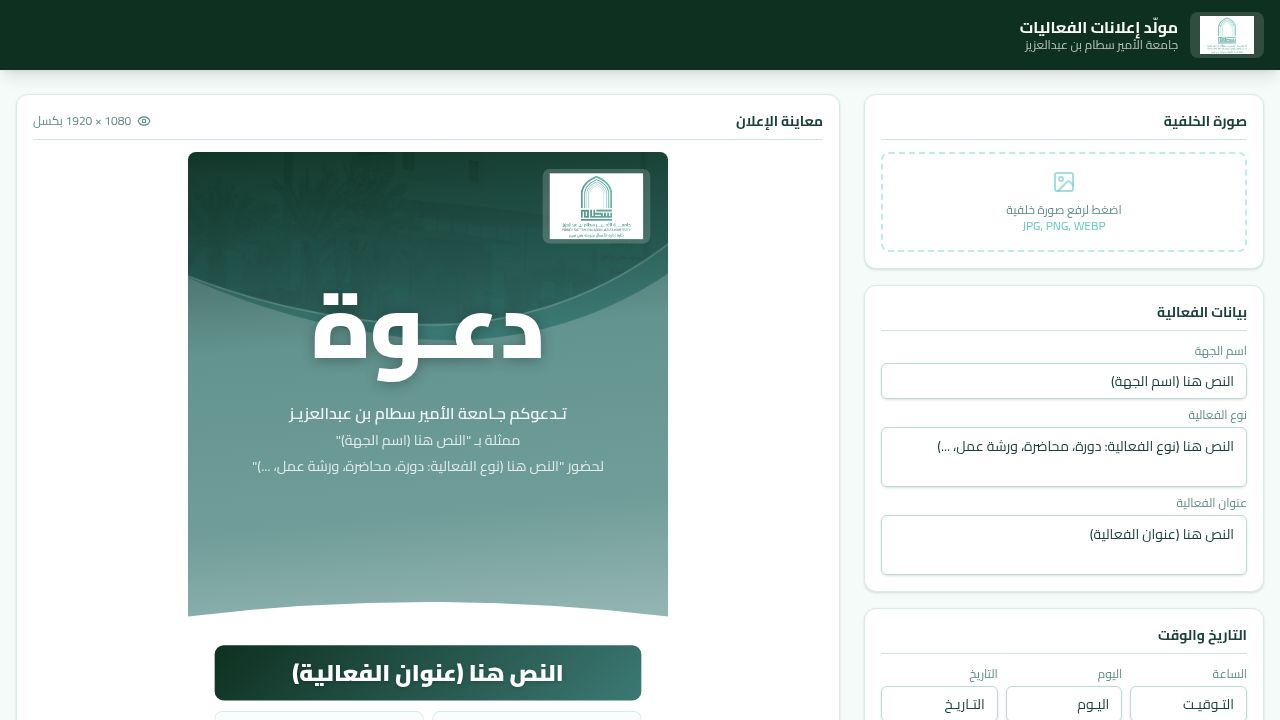
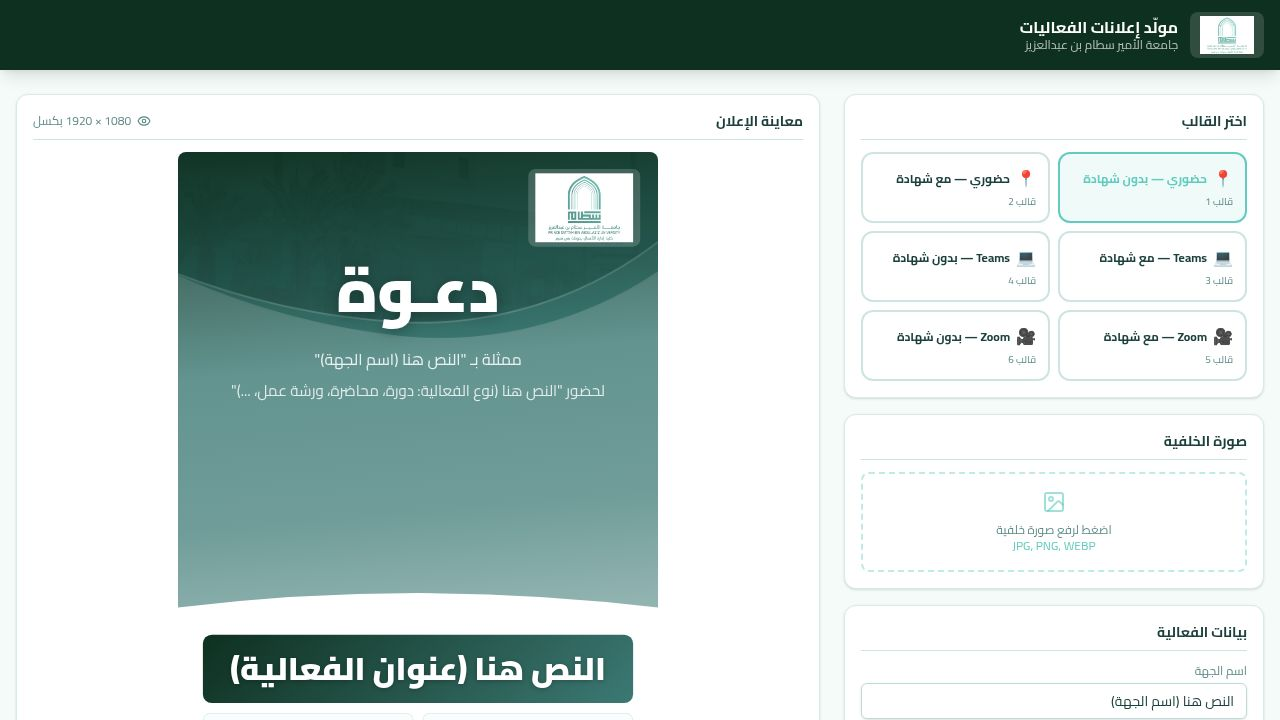
Add option to save event announcements in multiple image formats
Introduces an export format selector with WebP, PNG, and JPEG options, updating the export functionality to support these formats and their respective quality settings.

Replit-Commit-Author: Agent
Replit-Commit-Session-Id: ddc0945b-ef1c-409e-8434-9f28f4acb59c
Replit-Commit-Checkpoint-Type: full_checkpoint
Replit-Commit-Event-Id: 080a64f2-0b92-4347-a137-874e0f473299
Replit-Commit-Screenshot-Url: https://storage.googleapis.com/screenshot-production-us-central1/518b3086-2158-4eb5-bfa4-b797410b05bc/ddc0945b-ef1c-409e-8434-9f28f4acb59c/hIoFqSB
Replit-Helium-Checkpoint-Created: true

diff --git a/artifacts/ad-generator/src/pages/AdGenerator.tsx b/artifacts/ad-generator/src/pages/AdGenerator.tsx
@@ -36,9 +36,30 @@ const PRESET_ICONS: Record<string, string> = {
   "zoom": "🎥",
 };
 
+type ExportFormat = "webp" | "png" | "jpeg";
+
+interface FormatOption {
+  id: ExportFormat;
+  label: string;
+  mime: string;
+  ext: string;
+  quality: number;
+  hint: string;
+}
+
+const FORMAT_OPTIONS: FormatOption[] = [
+  { id: "webp", mime: "image/webp", ext: "webp", label: "WebP", quality: 0.95,
+    hint: "أفضل جودة وأصغر حجم — موصى به" },
+  { id: "png",  mime: "image/png",  ext: "png",  label: "PNG",  quality: 1,
+    hint: "جودة لا تُفقد — حجم أكبر" },
+  { id: "jpeg", mime: "image/jpeg", ext: "jpg",  label: "JPEG", quality: 0.92,
+    hint: "أصغر حجم — مناسب للمشاركة السريعة" },
+];
+
 export default function AdGenerator() {
   const [data, setData] = useState<EventAdData>({ ...DEFAULT_DATA });
   const [selectedPreset, setSelectedPreset] = useState<number>(1);
+  const [exportFormat, setExportFormat] = useState<ExportFormat>("webp");
   const [isExporting, setIsExporting] = useState(false);
 
   const [scale, setScale] = useState(0.35);
@@ -93,6 +114,7 @@ export default function AdGenerator() {
     const el = exportRef.current;
     if (!el) return;
     setIsExporting(true);
+    const fmt = FORMAT_OPTIONS.find(f => f.id === exportFormat)!;
     try {
       el.style.visibility = "visible";
       await new Promise(r => setTimeout(r, 200));
@@ -105,8 +127,8 @@ export default function AdGenerator() {
       });
       el.style.visibility = "hidden";
       const link = document.createElement("a");
-      link.download = "إعلان-فعالية-جامعة-سطام.png";
-      link.href = canvas.toDataURL("image/png");
+      link.download = `إعلان-فعالية-جامعة-سطام.${fmt.ext}`;
+      link.href = canvas.toDataURL(fmt.mime, fmt.quality);
       link.click();
     } catch (err) {
       console.error(err);
@@ -114,7 +136,7 @@ export default function AdGenerator() {
     } finally {
       setIsExporting(false);
     }
-  }, []);
+  }, [exportFormat]);
 
   const isOnline = data.locationType === "teams" || data.locationType === "zoom";
 
@@ -282,6 +304,29 @@ export default function AdGenerator() {
             </button>
           </Section>
 
+          {/* ══ EXPORT FORMAT ══ */}
+          <Section title="صيغة الحفظ">
+            <div className="grid grid-cols-3 gap-2">
+              {FORMAT_OPTIONS.map(fmt => (
+                <button
+                  key={fmt.id}
+                  data-testid={`format-${fmt.id}`}
+                  onClick={() => setExportFormat(fmt.id)}
+                  className={`rounded-xl border-2 p-3 transition-all flex flex-col items-center gap-1 ${
+                    exportFormat === fmt.id
+                      ? "border-primary bg-primary/10 text-primary"
+                      : "border-border hover:border-primary/40 hover:bg-muted/40"
+                  }`}
+                >
+                  <span className="text-sm font-bold tracking-wider">{fmt.label}</span>
+                  <span className="text-[10px] text-center text-muted-foreground leading-tight">
+                    {fmt.hint}
+                  </span>
+                </button>
+              ))}
+            </div>
+          </Section>
+
           {/* Actions */}
           <div className="flex gap-3">
             <Button data-testid="button-export" onClick={exportAsImage} disabled={isExporting}
@@ -289,7 +334,9 @@ export default function AdGenerator() {
               {isExporting
                 ? <RefreshCw className="h-4 w-4 animate-spin" />
                 : <Download className="h-4 w-4" />}
-              {isExporting ? "جاري التصدير..." : "تحميل الصورة"}
+              {isExporting
+                ? "جاري التصدير..."
+                : `تحميل الصورة (${FORMAT_OPTIONS.find(f => f.id === exportFormat)?.label})`}
             </Button>
             <Button data-testid="button-reset" variant="outline"
               onClick={() => { setData({ ...DEFAULT_DATA }); setSelectedPreset(1); }}